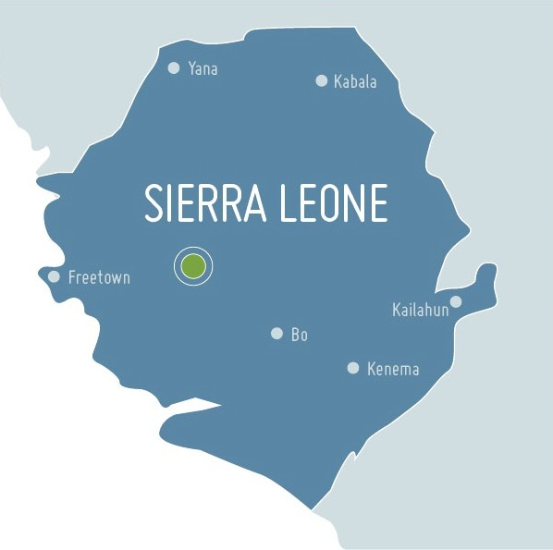
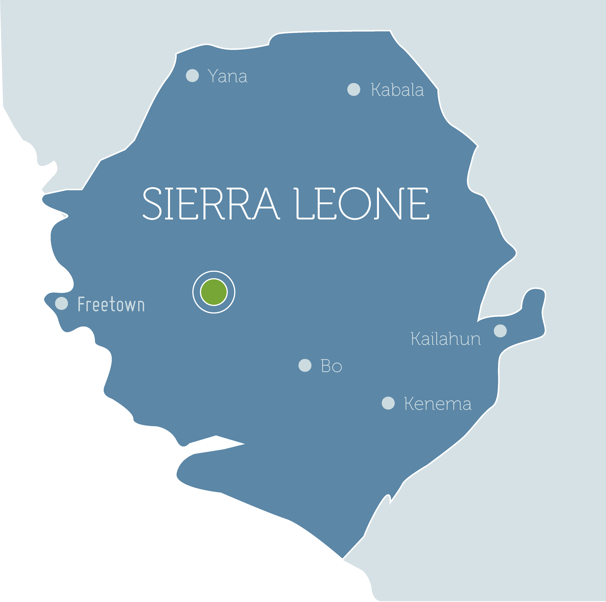
new maps

diff --git a/_sass/minima/_layout.scss b/_sass/minima/_layout.scss
@@ -591,13 +591,19 @@ dl.board-of-directors {
   }
   @include media-query-on-laptop() {
 
-    .container:nth-child(1) {
+    .map:nth-child(1) .container {
+      width:615px;
       margin-right:10px;
+    }
+    .map:nth-child(2) .container {
+      width:358px;
     }
 
     .map {
       float:left;
-      width:50%;
+    }
+    .map:nth-child(2) {
+      float:right;
     }
   }
 }
